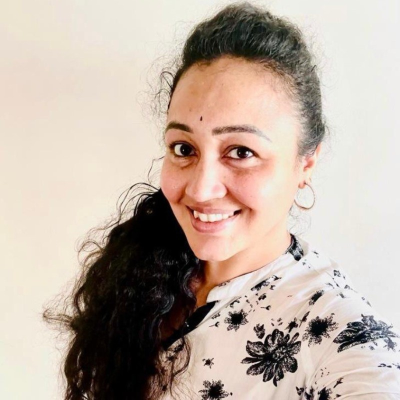
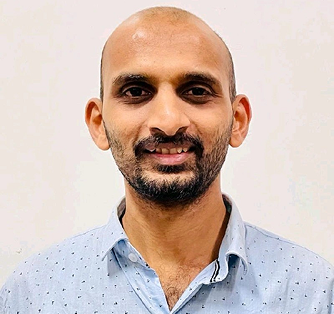
photos fixed

diff --git a/app/page.tsx b/app/page.tsx
@@ -1,35 +1,300 @@
 import Image from "next/image";
 
 const applications = [
-  ["Pediatric & adults vaccine", "application-vaccine.svg"], ["Pain management", "application-pain.svg"], ["Growth hormones", "application-growth.svg"], ["In-vitro fertilization (IVF)", "application-ivf.svg"], ["Diabetes", "application-diabetes.svg"],
+  ["Pediatric & adults vaccine", "application-vaccine.svg"],
+  ["Pain management", "application-pain.svg"],
+  ["Growth hormones", "application-growth.svg"],
+  ["In-vitro fertilization (IVF)", "application-ivf.svg"],
+  ["Diabetes", "application-diabetes.svg"],
 ];
-const milestones = [["June 2021", "Curexel secured core and follow-up IP patents"], ["November 2021", "Won NIH–Prayas and Startup India grants"], ["June 2022", "Locked in LOIs with leading clinics and labs"], ["November 2025", "Joined top regulatory accelerators, and opened its CDSCO Class B approval doors"]];
-const partners = ["asset-06.png", "asset-07.png", "asset-09.png", "asset-14.png", "asset-17.png"];
-const press = [["asset-15.png", "Medical Healthcare Innovation Awards, Chennai 2024", "September 2024"], ["asset-12.png", "Ramaiah Evolute Star Startup Award", "October 2024"], ["asset-17.png", "Global Bio India 2024, Delhi", "October 2024"]];
-const team = [["asset-05.png", "Shreyas N J", "Founder @ Curexel Technologies"], ["asset-10.png", "Vasudha Narasimha Swamy", "CEO, Founder @ Curexel Technologies"], ["asset-08.png", "Kedar Badnikar", "Founder @ Curexel Technologies"]];
+const milestones = [
+  ["June 2021", "Curexel secured core and follow-up IP patents"],
+  ["November 2021", "Won NIDHI–Prayas and Startup India grants"],
+  ["June 2022", "Locked in LOIs with leading clinics and labs"],
+  [
+    "November 2025",
+    "Joined top regulatory accelerators, and opened its CDSCO Class B approval doors",
+  ],
+];
+const partners = [
+  "asset-06.png",
+  "asset-07.png",
+  "asset-09.png",
+  "asset-14.png",
+  "asset-17.png",
+];
+const press = [
+  [
+    "Rectangle 46.png",
+    "Medical Healthcare Innovation Awards, Chennai 2024",
+    "September 2024",
+    "https://www.thehindubusinessline.com/news/medical-healthcare-innovation-awards-2024/article67318719.ece",
+  ],
+  ["asset-12.png", 
+    "Ramaiah Evolute Star Startup Award", 
+    "October 2024",
+    "https://www.ramaiah.edu.in/news/ramaiah-evolute-star-startup-award-2024/"],
+  ["asset-17.png", 
+    "Global Bio India , Delhi 2024", 
+    "October 2024",
+    "https://www.globalbioindia.com/"],
+];
+const team = [
+  ["asset-05.png", 
+    "Shreyas N J", 
+    "Founder @ Curexel Technologies"],
+  [
+    "asset-10.png",
+    "Vasudha Narasimha Swamy",
+    "CEO, Founder @ Curexel Technologies",
+  ],
+  ["asset-08.png", 
+    "Kedar Badnikar", 
+    "Founder @ Curexel Technologies"],
+];
 const asset = (name: string) => `/figma/updated/${name}`;
 
 export default function Home() {
-  return <main>
-    <header className="site-header">
-      <a href="#top" className="logo"><Image src={asset("asset-02.png")} alt="Curexel" width={168} height={76} priority /></a>
-      <nav>
-        <a href="#applications">Applications</a>
-        <a href="#story">Our Story</a>
-        <a href="#team">Team</a>
-        <a href="#contact">Contact Us</a>
-        <a className="button compact" href="#book">Book a Demo</a>
-      </nav>
-    </header>
-    <section className="hero" id="top"><Image src={asset("asset-01.jpeg")} alt="Clinician caring for a child" fill priority className="hero-photo" sizes="100vw" /><div className="hero-card"><h1>Make Every Injection <em>Painless</em></h1><p className="lead">Our advanced drug delivery systems delivers medicine without the sting — gentle, precise, and safe for all ages.</p><p>Every year, 24 billion injections cause fear and skipped treatments. We’re changing that — one painless shot at a time.</p><a className="button" href="#book">Book a Demo</a></div></section>
-    <div className="clinical"><strong>Clinical Stage:</strong> CDSCO Class B dossier in progress</div>
-    <section className="section applications" id="applications"><h2>Applications</h2><div className="app-grid">{applications.map(([name, icon], index) => <article className={index % 2 === 0 ? "accent" : ""} key={name}><Image src={asset(icon)} alt="" width={60} height={60} /><h3>{name}</h3></article>)}</div></section>
-    <section className="section story" id="story"><div className="copy"><h2>Born at IISc. Built to end needle fear.</h2><p>Curexel began in Bengaluru inside a collaborative lab at the Indian Institute of Science. A small team of biomedical engineers noticed one truth: fear of pain keeps millions from routine care. We focused on one problem and designed a device that reimagines how drugs and diagnostics enter the body.</p></div><div className="mission"><span>“</span><div><h3>Our Mission</h3><p>To eliminate needle pain and anxiety from healthcare — vaccination, IV and cannulation into a gentle, effortless experience. Injections that are pain-free, clinically efficient, and affordable for all.</p></div></div><div className="journey"><h3>Our Journey</h3>{milestones.map(([date, text]) => <div className="milestone" key={date}><time>{date}</time><i /><p>{text}</p></div>)}</div></section>
-    <section className="section partners"><h2>We are Supported By</h2><div>{partners.map((name) => <Image src={asset(name)} alt="Partner organization" width={150} height={70} key={name} />)}</div></section>
-    <section className="section press" id="press"><div className="copy"><h2>Recognition &amp; Press</h2><p>Selected recognition: NDHI–Prayas, Startup India grants, regulatory accelerators — moving from concept to clinical launch in record time.</p></div><div className="three-grid">{press.map(([image, title, date]) => <article key={title}><Image src={asset(image)} alt="" width={334} height={314} /><span>{date}</span><h3>{title}</h3><p>Recognized for innovative healthcare technology solutions.</p></article>)}</div></section>
-    <section className="section team" id="team"><div className="copy"><h2>Our Team</h2><p>Curexel Technologies was founded in 2023. Behind Curexel is a diverse and passionate team of healthcare professionals, designers, and innovators. Together, we blend medical insight with user-focused design to build solutions that heal without hurting.</p></div><div className="three-grid">{team.map(([image, name, role]) => <article key={name}><Image src={asset(image)} alt={name} width={334} height={314} /><h3>{name}</h3><p>{role}</p></article>)}</div></section>
-    <section className="contact" id="contact"><div className="contact-image"><Image src={asset("asset-20.png")} alt="Curexel healthcare professional" fill sizes="(max-width: 800px) 100vw, 626px" /></div><div><h2>Contact Us</h2><p><strong>Address:</strong> 11/A, 5th Main, 2nd Cross, Pramoda Layout, Nayanadahalli, Bengaluru – 560039</p><p><strong>Email:</strong> info@curexel.com</p><a className="button" href="https://wa.me/919876543210">Connect with Us</a></div></section>
-    <section className="section book" id="book"><div className="copy"><h2>Ready to see it? Book a demo.</h2><p>See the device in a clinical setting and discuss integration with your healthcare facility.</p></div><a className="button" href="mailto:info@curexel.com?subject=Book%20a%20Curexel%20demo">Book a Demo</a></section>
-    <footer><div><h2>Curexel Technologies<br />Pvt Ltd</h2><p>Eliminating needle pain and anxiety from healthcare.</p></div><div><h3>Quick Links</h3><a className="button compact" href="#book">Book a Demo</a><a href="#applications">Applications</a><a href="#story">Our Story</a><a href="#press">Awards &amp; Recognition</a><a href="#team">Our Team</a><a href="#contact">Contact</a></div><div><h3>Contact</h3><p>11/A, 5th Main, 2nd Cross, Pramoda Layout, Nayanadahalli, Bengaluru – 560039</p><a href="mailto:info@curexel.com">info@curexel.com</a><p className="social">in ◎ ◌</p></div><small>© Curexel Technologies Pvt Ltd 2025. All rights reserved.</small></footer>
-  </main>;
+  return (
+    <main>
+      <header className="site-header">
+        <a href="#top" className="logo">
+          <Image
+            src={asset("asset-02.png")}
+            alt="Curexel"
+            width={168}
+            height={76}
+            priority
+          />
+        </a>
+        <nav>
+          <a href="#applications">Applications</a>
+          <a href="#story">Our Story</a>
+          <a href="#team">Team</a>
+          <a href="#contact">Contact Us</a>
+          <a className="button compact" 
+          href="https://docs.google.com/forms/d/e/1FAIpQLScrXKUdTFLm7iaKIHvI-W_JkrCsSajezaoKlzslV1UCdYuYng/viewform"
+          target="_blank"
+          rel="noopener noreferrer">
+            Book a Demo
+          </a>
+        </nav>
+      </header>
+      <section className="hero" id="top">
+        <Image
+          src={asset("asset-01.jpeg")}
+          alt="Clinician caring for a child"
+          fill
+          priority
+          className="hero-photo"
+          sizes="100vw"
+        />
+        <div className="hero-card">
+          <h1>
+            Make Every Injection <em>Painless</em>
+          </h1>
+          <p className="lead">
+            Our advanced drug delivery systems delivers medicine without the
+            sting — gentle, precise, and safe for all ages.
+          </p>
+          <p>
+            Every year, 24 billion injections cause fear and skipped treatments.
+            We’re changing that — one painless shot at a time.
+          </p>
+          <a className="button" 
+          href="https://docs.google.com/forms/d/e/1FAIpQLScrXKUdTFLm7iaKIHvI-W_JkrCsSajezaoKlzslV1UCdYuYng/viewform"
+          target="_blank"
+          rel="noopener noreferrer">
+            Book a Demo
+          </a>
+        </div>
+      </section>
+      <div className="clinical">
+        <strong>Clinical Stage:</strong> CDSCO Class B dossier in progress
+      </div>
+      <section className="section applications" id="applications">
+        <h2>Applications</h2>
+        <div className="app-grid">
+          {applications.map(([name, icon], index) => (
+            <article className={index % 2 === 0 ? "accent" : ""} key={name}>
+              <Image src={asset(icon)} alt="" width={60} height={60} />
+              <h3>{name}</h3>
+            </article>
+          ))}
+        </div>
+      </section>
+      <section className="section story" id="story">
+        <div className="copy">
+          <h2>Born at IISc. Built to end needle fear.</h2>
+          <p>
+            Curexel began in Bengaluru inside a collaborative lab at the Indian
+            Institute of Science. A small team of biomedical engineers noticed
+            one truth: fear of pain keeps millions from routine care. We focused
+            on one problem and designed a device that reimagines how drugs and
+            diagnostics enter the body.
+          </p>
+        </div>
+        <div className="mission">
+          <span>“</span>
+          <div>
+            <h3>Our Mission</h3>
+            <p>
+              To eliminate needle pain and anxiety from healthcare —
+              vaccination, IV and cannulation into a gentle, effortless
+              experience. Injections that are pain-free, clinically efficient,
+              and affordable for all.
+            </p>
+          </div>
+        </div>
+        <div className="journey">
+          <h3>Our Journey</h3>
+          {milestones.map(([date, text]) => (
+            <div className="milestone" key={date}>
+              <time>{date}</time>
+              <i />
+              <p>{text}</p>
+            </div>
+          ))}
+        </div>
+      </section>
+      <section className="section partners">
+        <h2>We are Supported By</h2>
+        <div>
+          {partners.map((name) => (
+            <Image
+              src={asset(name)}
+              alt="Partner organization"
+              width={150}
+              height={70}
+              key={name}
+            />
+          ))}
+        </div>
+      </section>
+      <section className="section press" id="press">
+        <div className="copy">
+          <h2>Recognition &amp; Press</h2>
+          <p>
+            Selected recognition: NIDHI–Prayas, Startup India grants, regulatory
+            accelerators — moving from concept to clinical launch in record
+            time.
+          </p>
+        </div>
+        <div className="three-grid">
+          {press.map(([image, title, date, link]) => (
+            <a
+              key={title}
+              href={link}
+              target="_blank"
+              rel="noopener noreferrer"
+              className="press-card"
+            >
+              <article>
+                <Image src={asset(image)} alt={title} width={334} height={314} />
+                <span>{date}</span>
+                <h3>{title}</h3>
+                <p>Recognized for innovative healthcare technology solutions.</p>
+              </article>
+            </a>
+          ))}
+        </div>
+      </section>
+      <section className="section team" id="team">
+        <div className="copy">
+          <h2>Our Team</h2>
+          <p>
+            Curexel Technologies was founded in 2023. Behind Curexel is a
+            diverse and passionate team of healthcare professionals, designers,
+            and innovators. Together, we blend medical insight with user-focused
+            design to build solutions that heal without hurting.
+          </p>
+        </div>
+        <div className="three-grid">
+          {team.map(([image, name, role]) => (
+            <article key={name}>
+              <Image src={asset(image)} alt={name} width={334} height={314} />
+              <h3>{name}</h3>
+              <p>{role}</p>
+            </article>
+          ))}
+        </div>
+      </section>
+      <section className="contact" id="contact">
+        <div className="contact-image">
+          <Image
+            src={asset("asset-20.png")}
+            alt="Curexel healthcare professional"
+            fill
+            sizes="(max-width: 800px) 100vw, 626px"
+          />
+        </div>
+        <div>
+          <h2>Contact Us</h2>
+          <p>
+            <strong>Address:</strong> 11/A, 5th Main, 2nd Cross, Pramoda Layout,
+            Nayanadahalli, Bengaluru – 560039
+          </p>
+          <p>
+            <strong>Email:</strong> info@curexel.com
+          </p>
+          <a className="button" href="https://wa.me/918867286690">
+            Connect with Us
+          </a>
+        </div>
+      </section>
+      <section className="section book" id="book">
+        <div className="copy">
+          <h2>Ready to see it? Book a demo.</h2>
+          <p>
+            See the device in a clinical setting and discuss integration with
+            your healthcare facility.
+          </p>
+        </div>
+        <a
+          className="button"
+          href="https://docs.google.com/forms/d/e/1FAIpQLScrXKUdTFLm7iaKIHvI-W_JkrCsSajezaoKlzslV1UCdYuYng/viewform"
+          target="_blank"
+          rel="noopener noreferrer"
+        >
+          Book a Demo
+        </a>
+      </section>
+      <footer>
+        <div>
+          <h2>
+            Curexel Technologies
+            <br />
+            Pvt Ltd
+          </h2>
+          <p>Eliminating needle pain and anxiety from healthcare.</p>
+        </div>
+        <div>
+          <h3>Quick Links</h3>
+          <a
+          className="button compact"
+          href="https://docs.google.com/forms/d/e/1FAIpQLScrXKUdTFLm7iaKIHvI-W_JkrCsSajezaoKlzslV1UCdYuYng/viewform"
+          target="_blank"
+          rel="noopener noreferrer"
+          >
+            Book a Demo
+          </a>
+          <a href="#applications">Applications</a>
+          <a href="#story">Our Story</a>
+          <a href="#press">Awards &amp; Recognition</a>
+          <a href="#team">Our Team</a>
+          <a href="#contact">Contact</a>
+        </div>
+        <div>
+          <h3>Contact</h3>
+          <p>
+            11/A, 5th Main, 2nd Cross, Pramoda Layout, Nayanadahalli, Bengaluru
+            – 560039
+          </p>
+          <a href="mailto:info@curexel.com">info@curexel.com</a>
+          <p className="social">in ◎ ◌</p>
+        </div>
+        <small>© Curexel Technologies Pvt Ltd {new Date().getFullYear()}. All rights reserved.</small>
+      </footer>
+    </main>
+  );
 }
